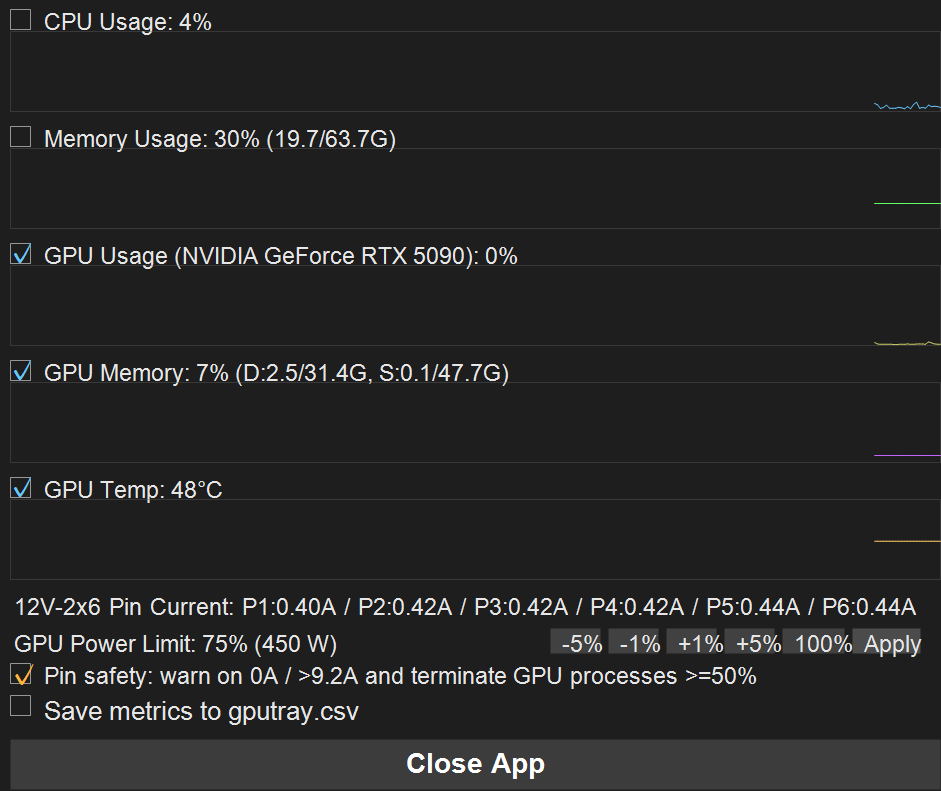
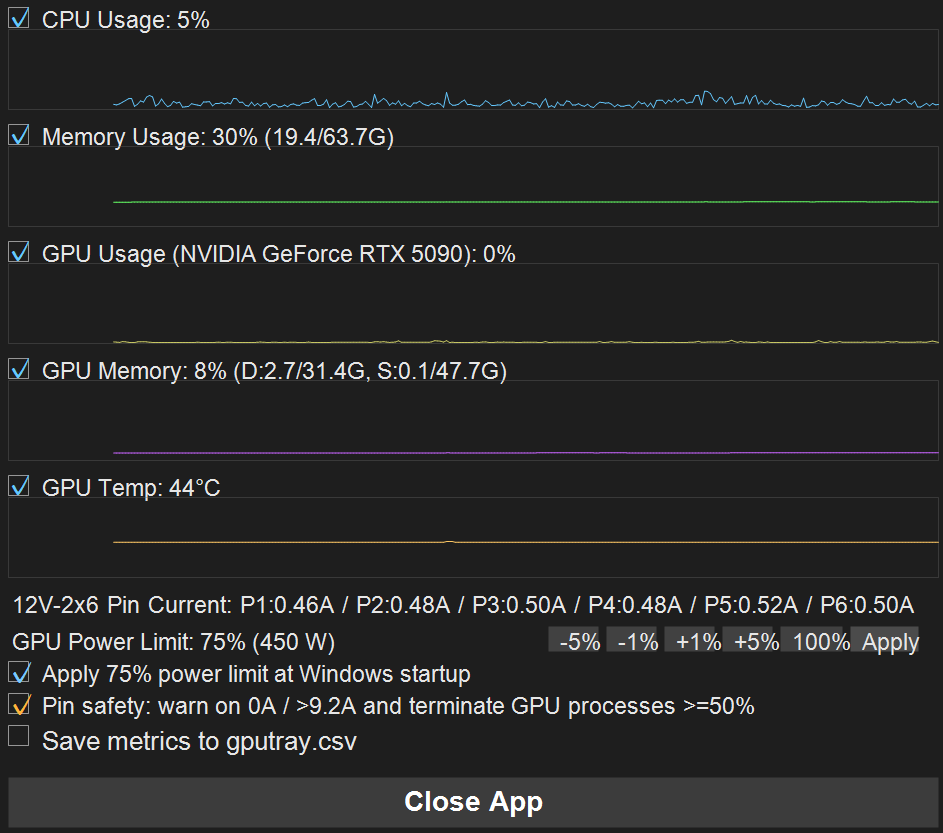
md

diff --git a/README.md b/README.md
@@ -30,6 +30,7 @@ A lightweight Windows system tray application that monitors GPU performance and 
   - Adjust from 70% to 100% of the card's BIOS default TDP in 1% steps, matching MSI Afterburner's percentage semantics.
   - Stage changes with -5%, -1%, +1%, +5%, or 100%, then apply them explicitly with the Apply button.
   - Uses NVML and requests administrator approval only when Apply is clicked and the driver requires it.
+  - **Apply at Windows startup**: Check "Apply N% power limit at Windows startup" in the dashboard to register a logon scheduled task that silently re-applies the last applied power limit (stored in the registry) every time you sign in. Unchecking removes the task. Enabling/disabling requires one-time administrator approval; the power limit itself is applied without any prompt at startup.
 
 ## Technologies Used
 
@@ -82,6 +83,7 @@ You can download the latest version from the [Releases Page](https://github.com/
 - **Right-Click**: Opens the performance dashboard with 5 detailed line graphs.
 - **Configure**: Use the **checkboxes** next to each metric in the dashboard to toggle its visibility in the system tray. (Maximum 5 items).
 - **Logging**: Check "Save metrics to gputray.csv" at the bottom of the dashboard to start recording data.
+- **Startup power limit**: Check "Apply N% power limit at Windows startup" below the power limit buttons to apply the saved power limit automatically on every Windows sign-in (an administrator approval is requested once when enabling or disabling).
 - **Close**: Click "Close App" at the bottom of the dashboard to terminate.
 
 ## License
